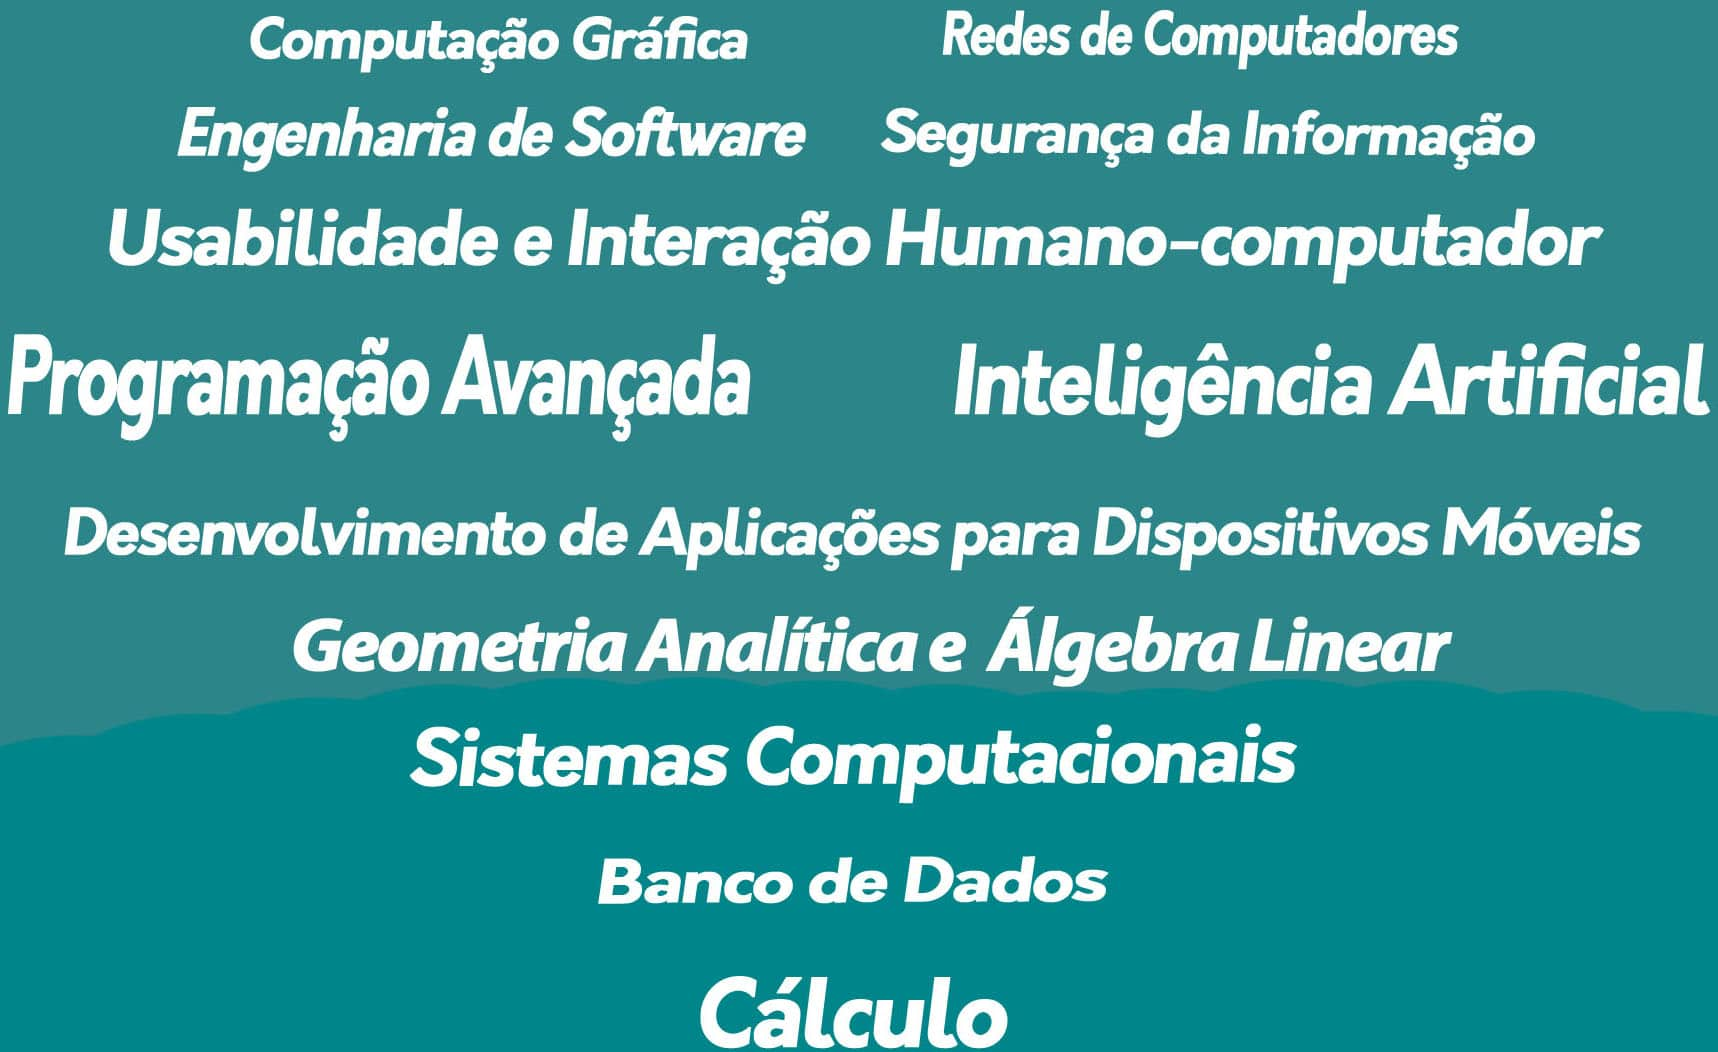
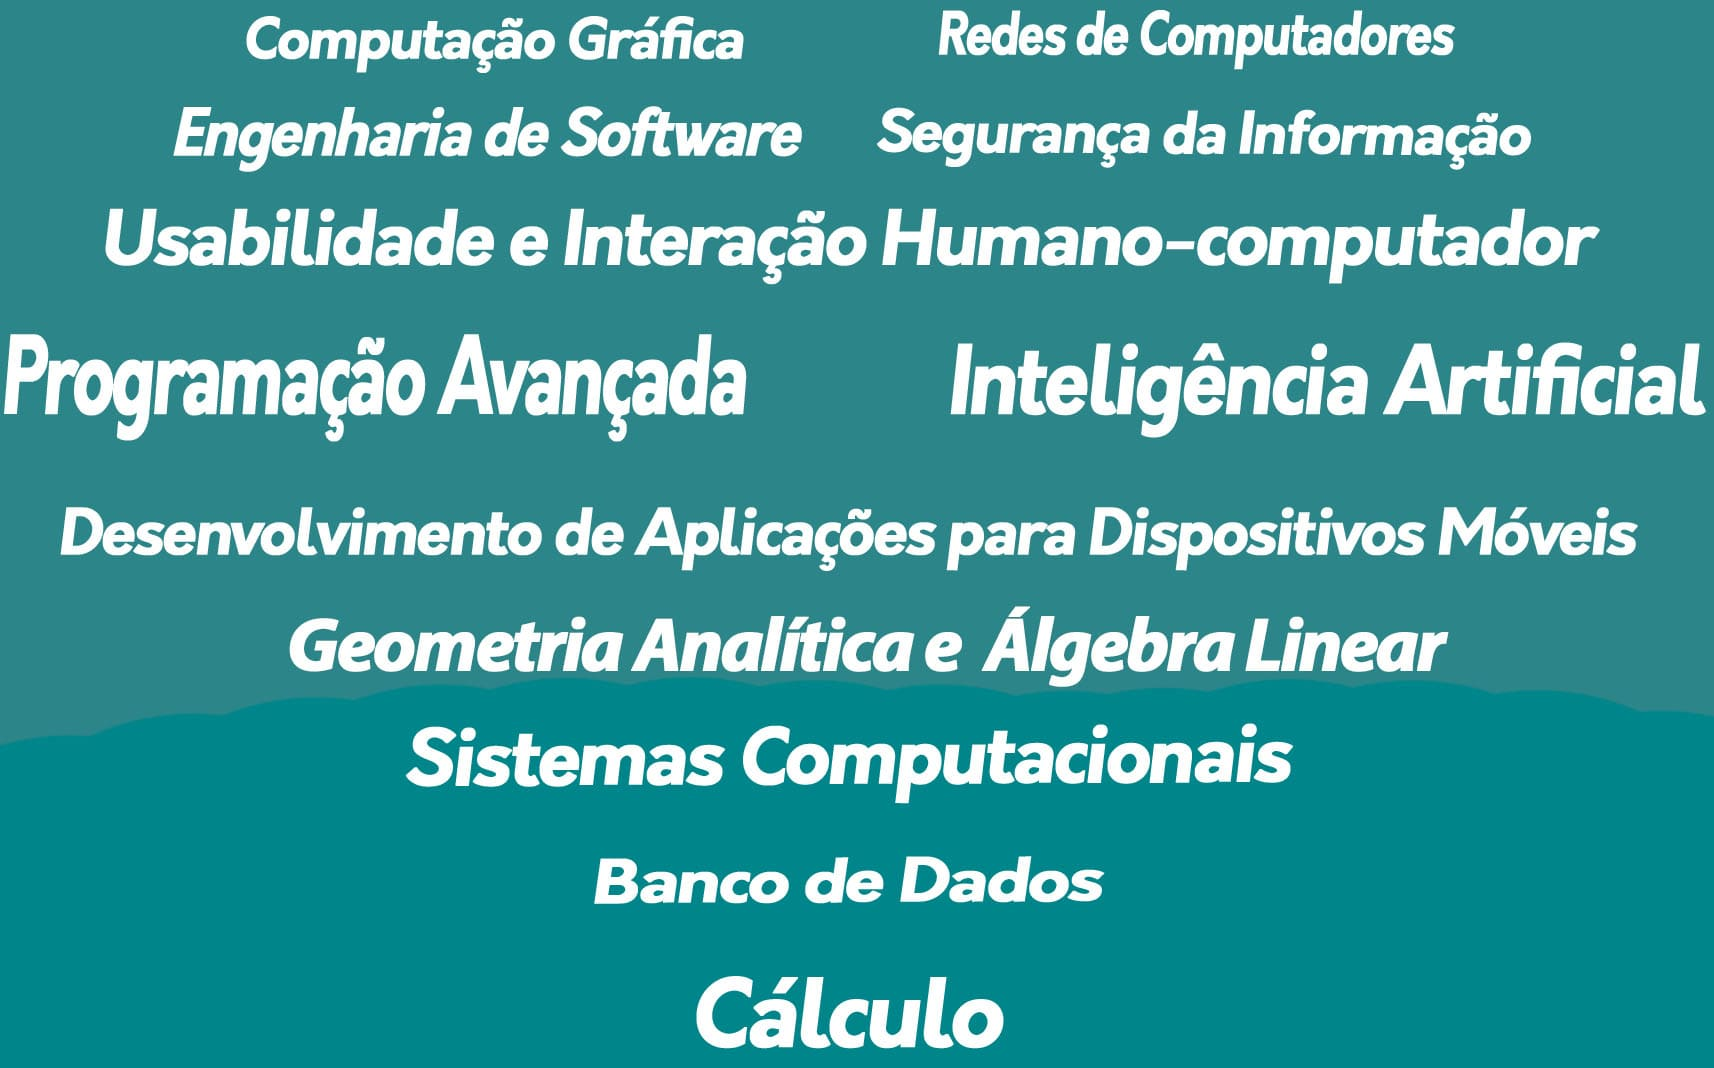
update image cadeiras, controle do crono pelo teclado

diff --git a/js/main.js b/js/main.js
@@ -29,7 +29,7 @@ if (window.sidebar){
 }
 
 if(Reveal.getQueryHash().s){
-
+	
 	var timer = new Timer();
 	var chrono = document.getElementById('chronoExample');
 	chrono.style.zIndex = 9999;
@@ -55,4 +55,18 @@ if(Reveal.getQueryHash().s){
 	timer.addEventListener('reset', function (e) {
 	    document.querySelector('#chronoExample .values').innerHTML = (timer.getTimeValues().toString());
 	}); 
+
+	document.addEventListener('keypress', function(e) {
+	    e = e || window.event;
+	    var code = e.which || e.keyCode;
+
+	  	if(code == 49)
+	  		timer.start();
+	  	else if(code == 50)
+	  		timer.pause();
+	  	else if(code == 51){
+	    	timer.reset();
+				timer.pause();
+	  	}
+	});
 }

diff --git a/index.html b/index.html
@@ -91,7 +91,7 @@
 					</table>
 				</section>
 				<section data-background="#000">
-					<h1 class="brasil" data-text="FIM">FIM</h1> 
+					<h1 class="brasil" data-text="ATÉ LOGO">ATÉ LOGO</h1> 
 				</section>
 
 			</div>
